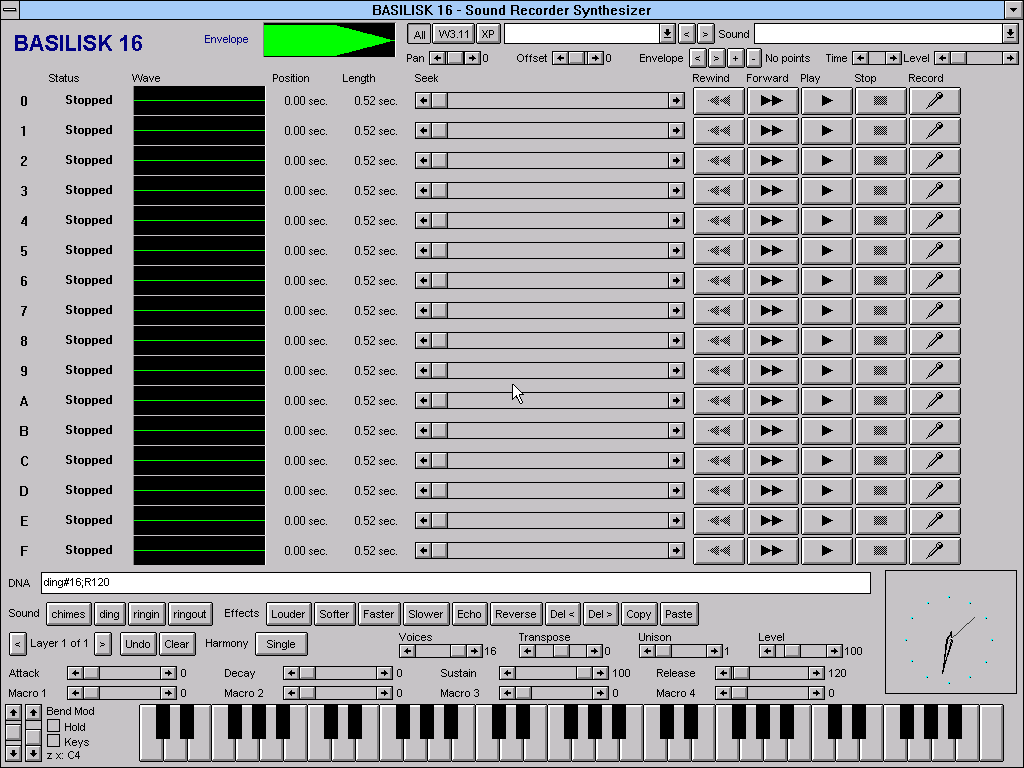
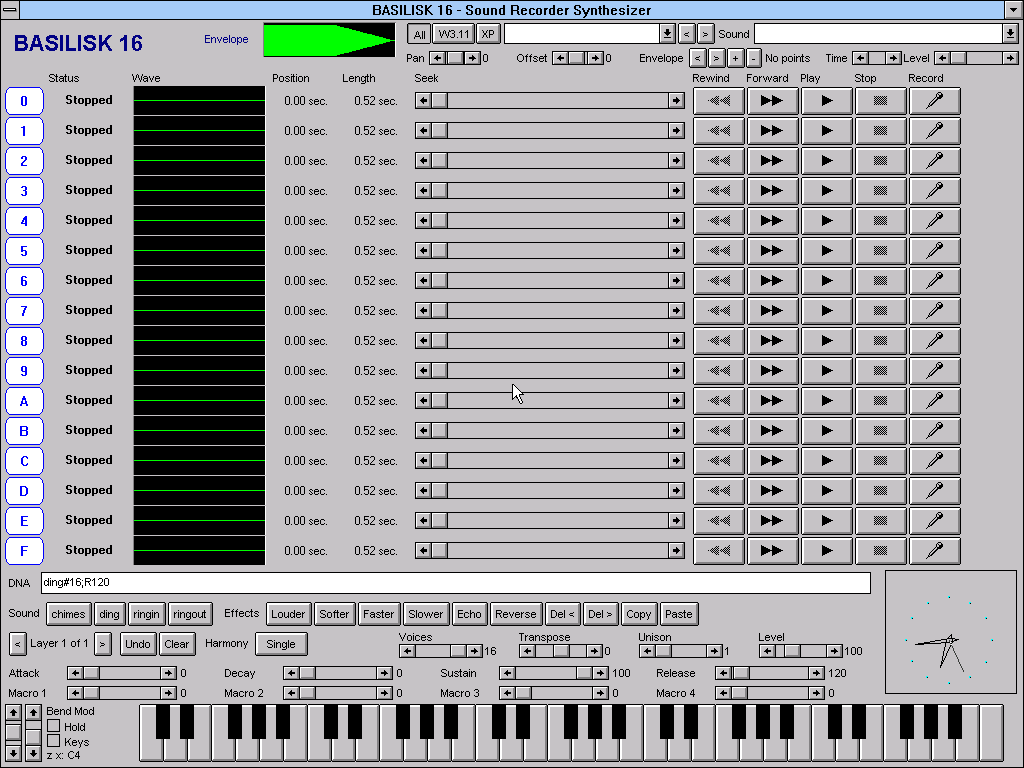
Try it online: rebuilt from main 46ab827 (CALC.EXE on the slim drive: the 0-F strip keys are Calculator's own)
Built with the card objects in ~/b16web/obj-56e6 (~/b16web/obj/libdbp.a, the suite page's, untouched). Live:
the rows' 0-F keys are Calculator's blue rounded keys, also while playing; e2e passes (keys, presets, watchdog,
phone).

Changed region(s): [[0.0, 0.0938, 0.0625, 0.75], [0.9062, 0.8125, 0.9375, 0.875]]

diff --git a/site/sndrec.html b/site/sndrec.html
@@ -384,8 +384,8 @@ td, th { text-align: left; padding: 4px 10px 4px 0; border-bottom: 1px solid var
   <p class="note b16mobile" hidden>Best on a desktop or laptop computer: it needs a mouse, a keyboard and a fast processor.</p>
   <p class="note">BASILISK SYNTH (XP edition): download only. Its Windows XP machine is about 1 GB and needs a fast virtual PC, which a browser cannot run in real time.</p>
 </div>
-<script src="sndrec/try/b16-ui.js?v=863fb2c24c" defer></script>
-<script src="sndrec/try/b16-try.js?v=863fb2c24c" defer></script>
+<script src="sndrec/try/b16-ui.js?v=085c77bd98" defer></script>
+<script src="sndrec/try/b16-try.js?v=085c77bd98" defer></script>
 <!-- b16-try: end -->
     <p><a class="btn" href="sndrec-download.html">All downloads and install steps</a><a class="btn" href="https://github.com/williamsharkey/windows-secrets/tree/main/packages/basilisk-synth-311">Source</a></p>
     <p class="note">Windows XP, Windows for Workgroups 3.11, their sounds and Sound Recorder are Microsoft's, included as part of this art project. The Windows images came from Windows for Workgroups 3.11 and Windows XP Professional SP3 as preserved by the <a href="https://archive.org/details/wfw311-disk">Internet Archive</a>. The library disc's sounds are public domain and CC0; each one's source is listed on the disc. The emulators are <a href="https://www.qemu.org/">QEMU</a> and DOSBox Pure (GPLv2), and the plugins are built with <a href="https://github.com/DISTRHO/DPF">DPF</a>.</p>

diff --git a/site/sndrec/try/b16-try.js b/site/sndrec/try/b16-try.js
@@ -3,7 +3,7 @@
 // pressed. The machine runs in a worker; the page only forwards the pointer, the keys and MIDI, and watches it.
 (function () {
   'use strict';
-  var CFG = /*CONFIG*/{"v":"863fb2c24c","files":[{"name":"b16.wasm","size":2524744,"gz":1034547},{"name":"w31web.state","size":5869564,"gz":1379300},{"name":"drive.zip","size":3368363,"gz":3368363}],"lead":2048}/*END*/;
+  var CFG = /*CONFIG*/{"v":"085c77bd98","files":[{"name":"b16.wasm","size":2524744,"gz":1034547},{"name":"w31web.state","size":5970216,"gz":1408448},{"name":"drive.zip","size":3392083,"gz":3392083}],"lead":2048}/*END*/;
   var DATA = null;   // b16-data.json, fetched on the click: the machine's settings, the library's names, the presets
   var root = document.getElementById('b16try');
   if (!root) return;
